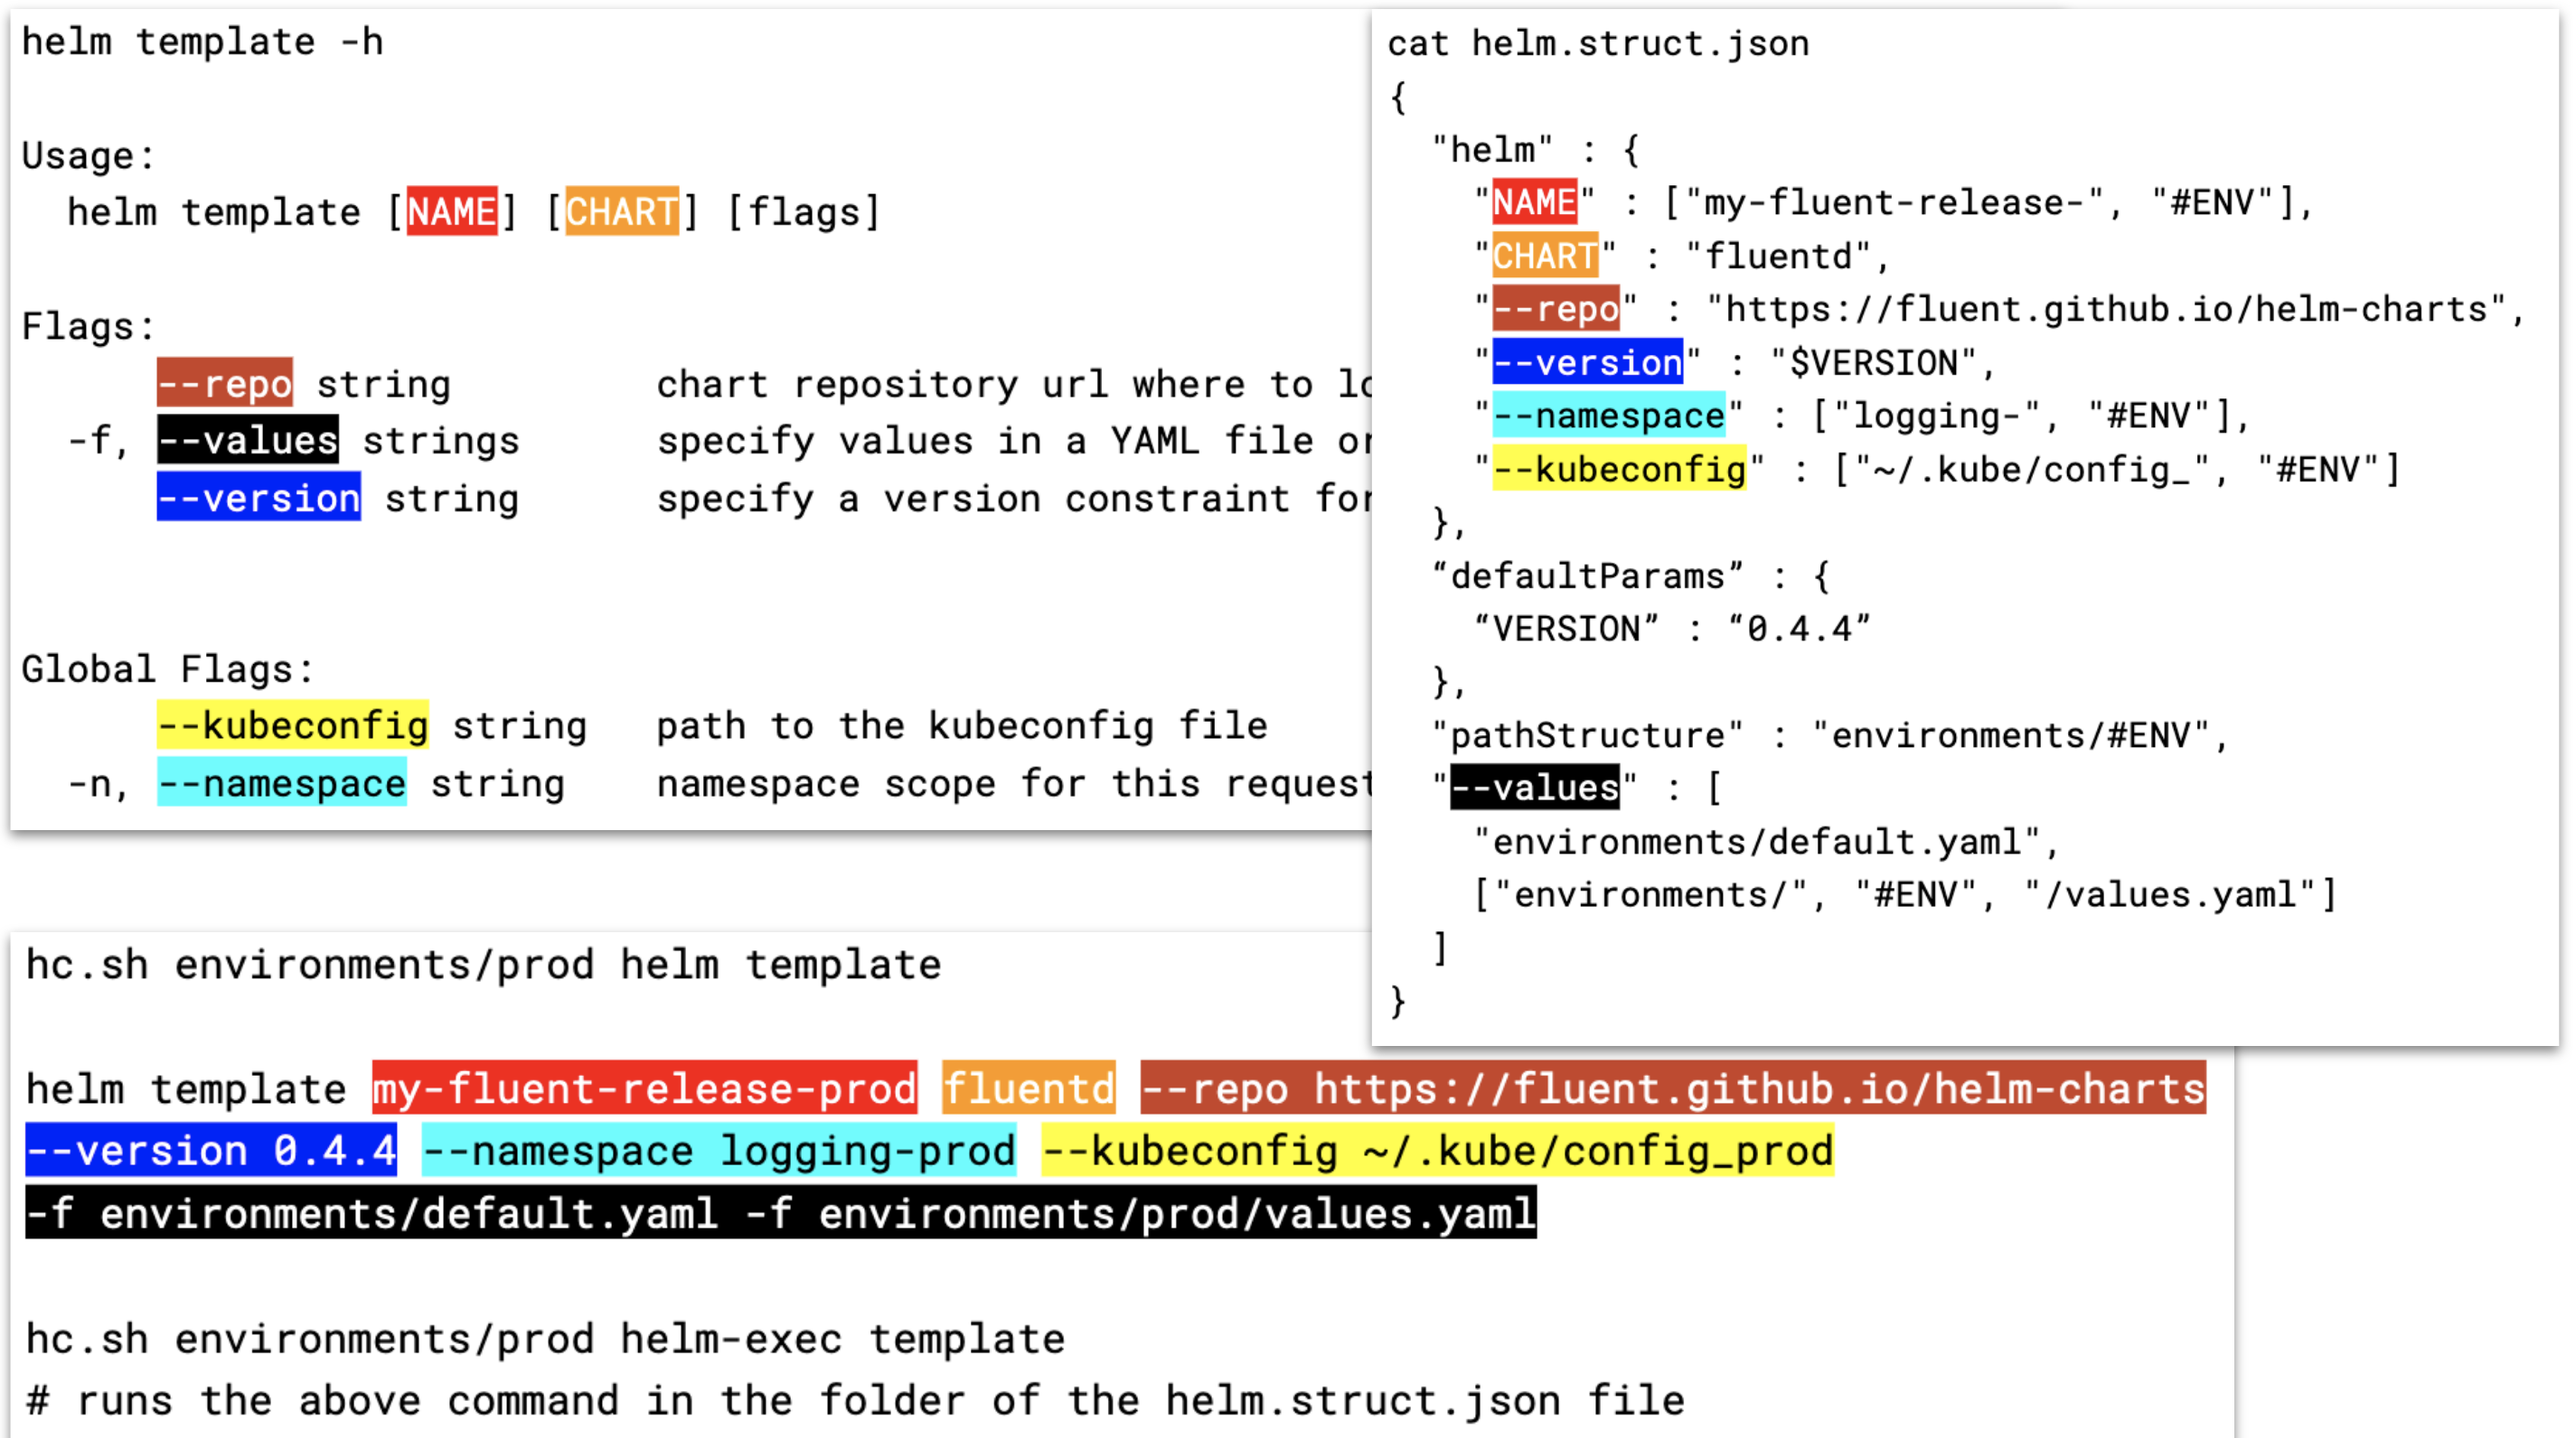
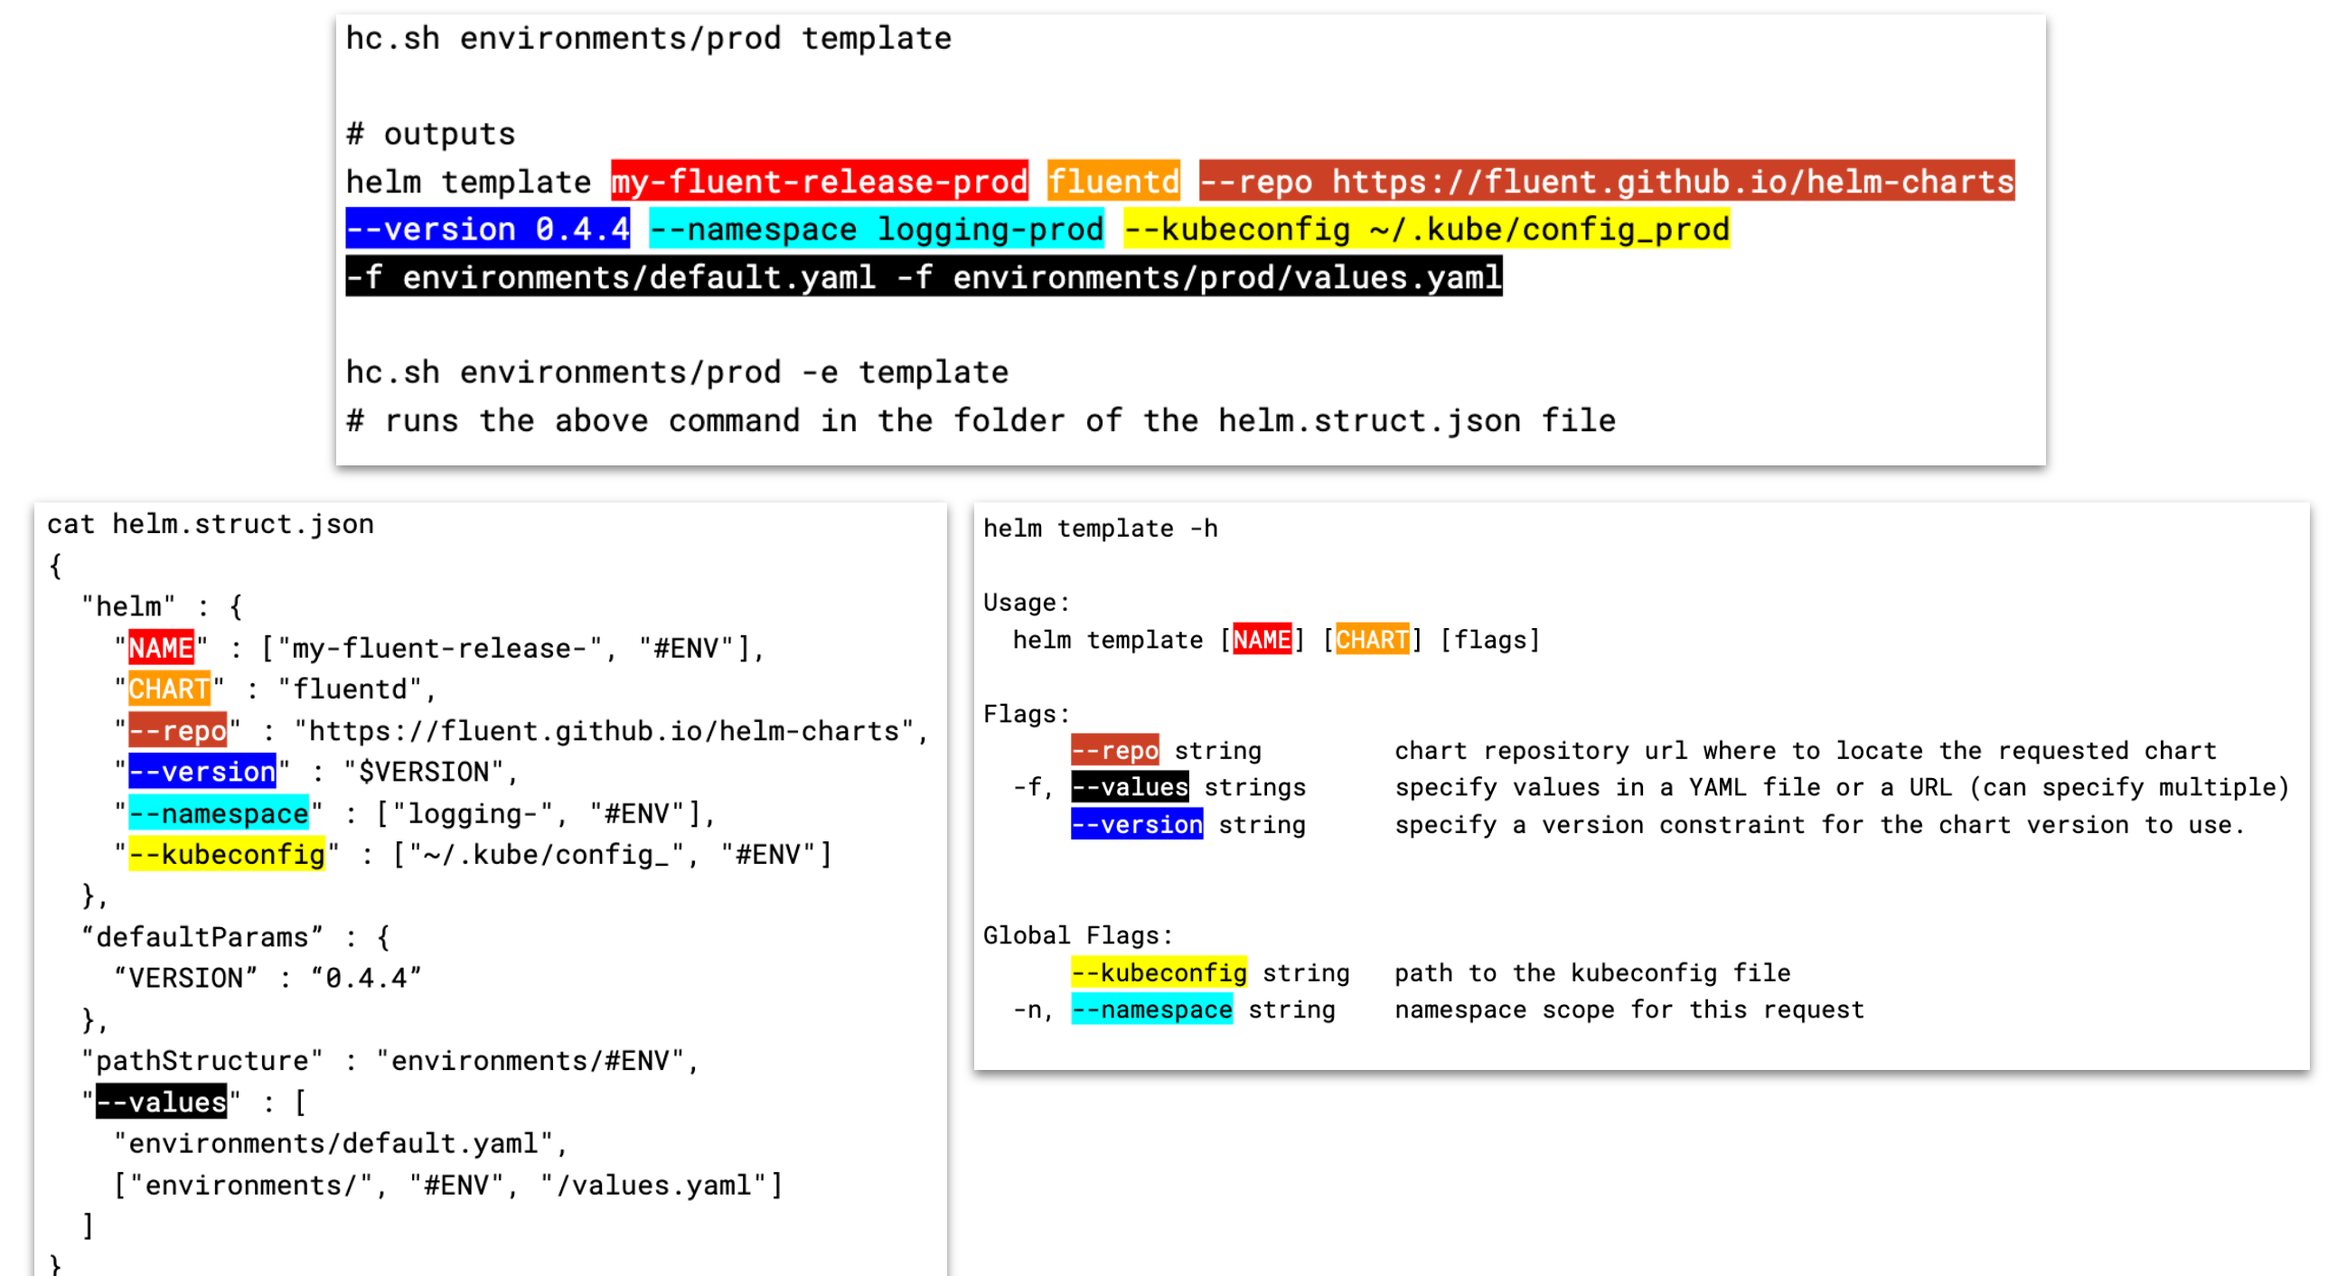
docs: update readme, diagram and usage print
- Basic usage should now be covered by -h print

diff --git a/readme.md b/readme.md
@@ -1,9 +1,8 @@
-# helm-coordinates
+# helm-coordinates (hc.sh)
 
 A Helm wrapper script that simplifies working with multiple deployments of the same Helm chart according to an implicit structure.
 
 ![helm coordinates overview](/docs/overview.png)
-
 
 ## Goals
 1. All information needed to do a Helm deployment in a specific environment should be uniquely determined from a specification folder -- the coordinate.
@@ -41,7 +40,7 @@ A Helm wrapper script that simplifies working with multiple deployments of the s
 
 ## Usage 
 
-`./hc.sh COORD_DEPTH COORD_PATH helm HELM_COMMAND`
+`./hc.sh [-d COORD_DEPTH] COORD_PATH helm HELM_COMMAND HELM_ARGUMENTS...`
 
 This will output a Helm command per the Helm coordinate file, and its referenced Helm structure file.
 
@@ -55,22 +54,11 @@ Example:
 
 To actually execute the helm command as well:
 
-* `./hc.sh COORD_DEPTH COORD_PATH helm-exec HELM_COMMAND`
+* `./hc.sh -d COORD_DEPTH COORD_PATH helm-exec HELM_COMMAND HELM_ARGUMENTS...`
 
 Example:
 
 * `./hc.sh -d 2 my/folder/environment/prod -e install`
-
-## Supported Helm commands
-
-* `template`
-* `install`
-* `upgrade`
-* `diff upgrade` (with Helm diff plugin)
-* `status`
-* `list` (list in same namespace as coord)
-
-Note: not all arguments are passed on for each command. Should be easy to modify the script if you need more though.
 
 ## Tutorial
 Assumes you have a working default kubeconfig. Will install the example 
@@ -100,7 +88,6 @@ cat examples/coord-files/environments/test/helm.coord.json
 # actually inspect the output from template execution
 ./hc.sh -d 2 examples/coord-files/environments/prod -e template
 ./hc.sh -d 2 examples/coord-files/environments/test -e template
-
 
 
 # if you are satisfied, and dare to ;) then lets install these (will use your default kubeconfig)
@@ -144,6 +131,19 @@ helm template my-prod-release my-chart --kubeconfig ~/.kube/config_prod --versio
 cd examples/environments/test/../..
 helm template my-test-release my-chart --kubeconfig ~/.kube/config_test --version 2.0.0-alpha -f profiles/small/values.yaml -f environments/test/values.yaml
 ```
+
+## Supported Helm commands
+
+Almost all Helm commands should be supported. The valid arguments and flags per Helm subcommand
+and subcommands have automatically "scraped" from `helm ... -h` output, and
+stored along the script in two files:
+
+*  `cmd-args.json`: Which optional flag (e.g. `--help`) is applicable for what list of commands/subcommands 
+*  `cmd-pos-args.json`: Which positional argument (e.g. `RELEASE_NAME`) is applicaple for what list of commands/subcommands
+
+You can override these files by placing your own copies in:
+* `$HOME/.helm-coord/cmd-args.json`
+* `$HOME/.helm-coord/cmd-pos-args.json`
 
 ## Future work
 
